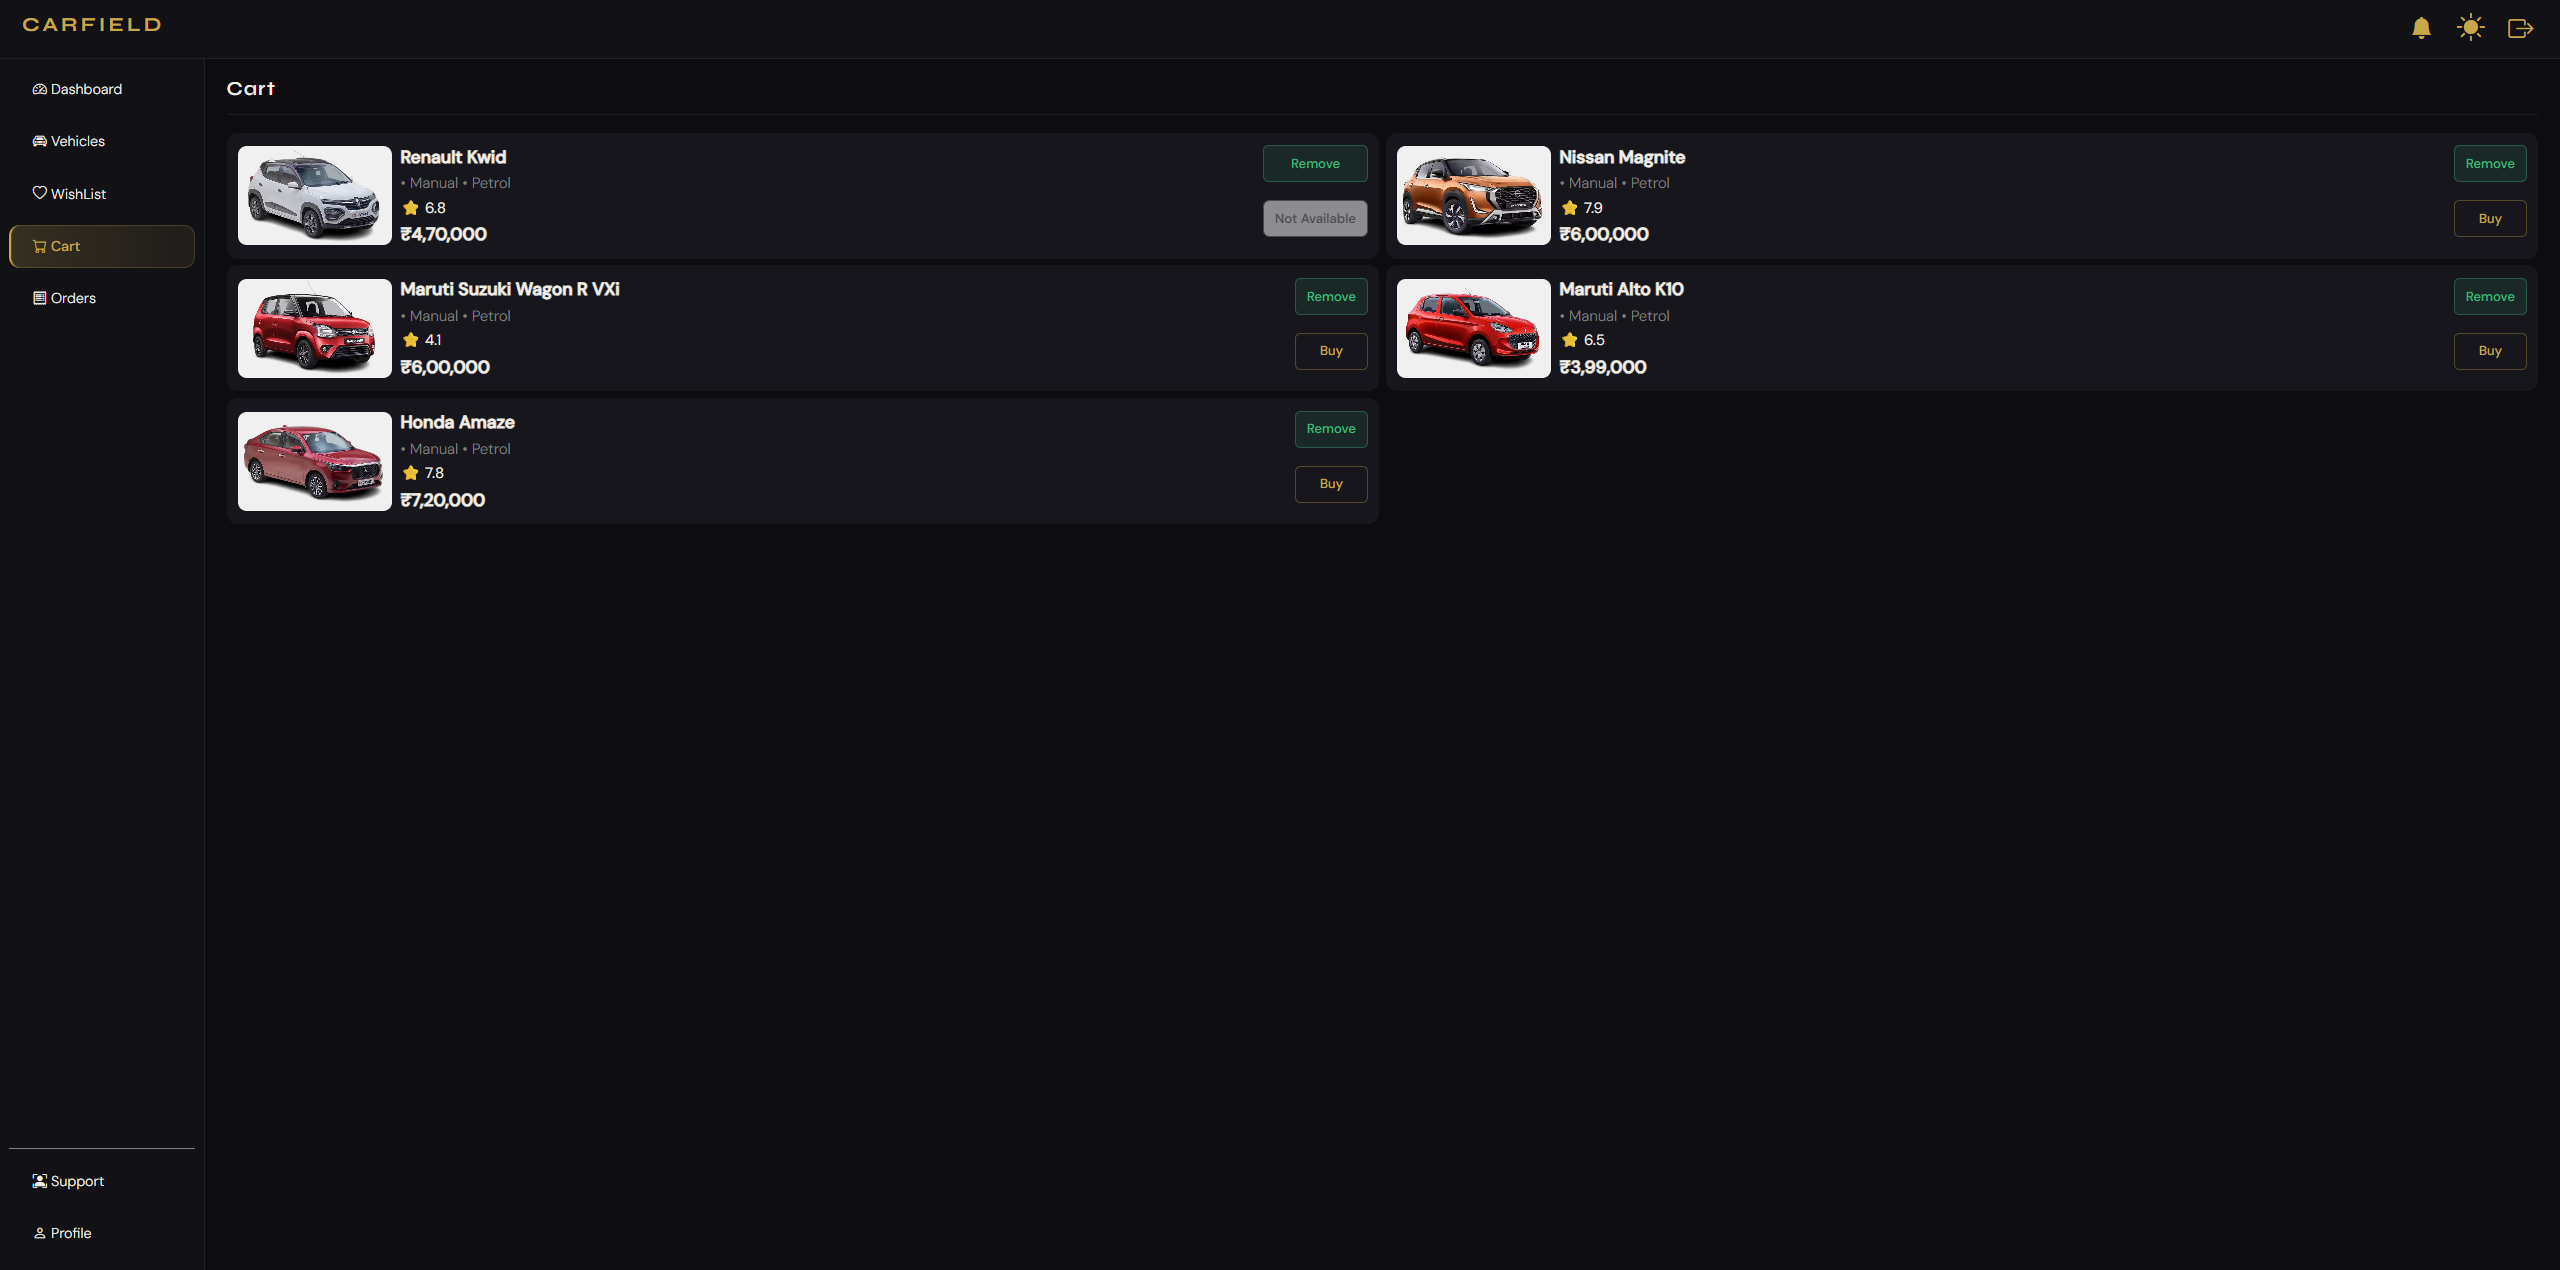
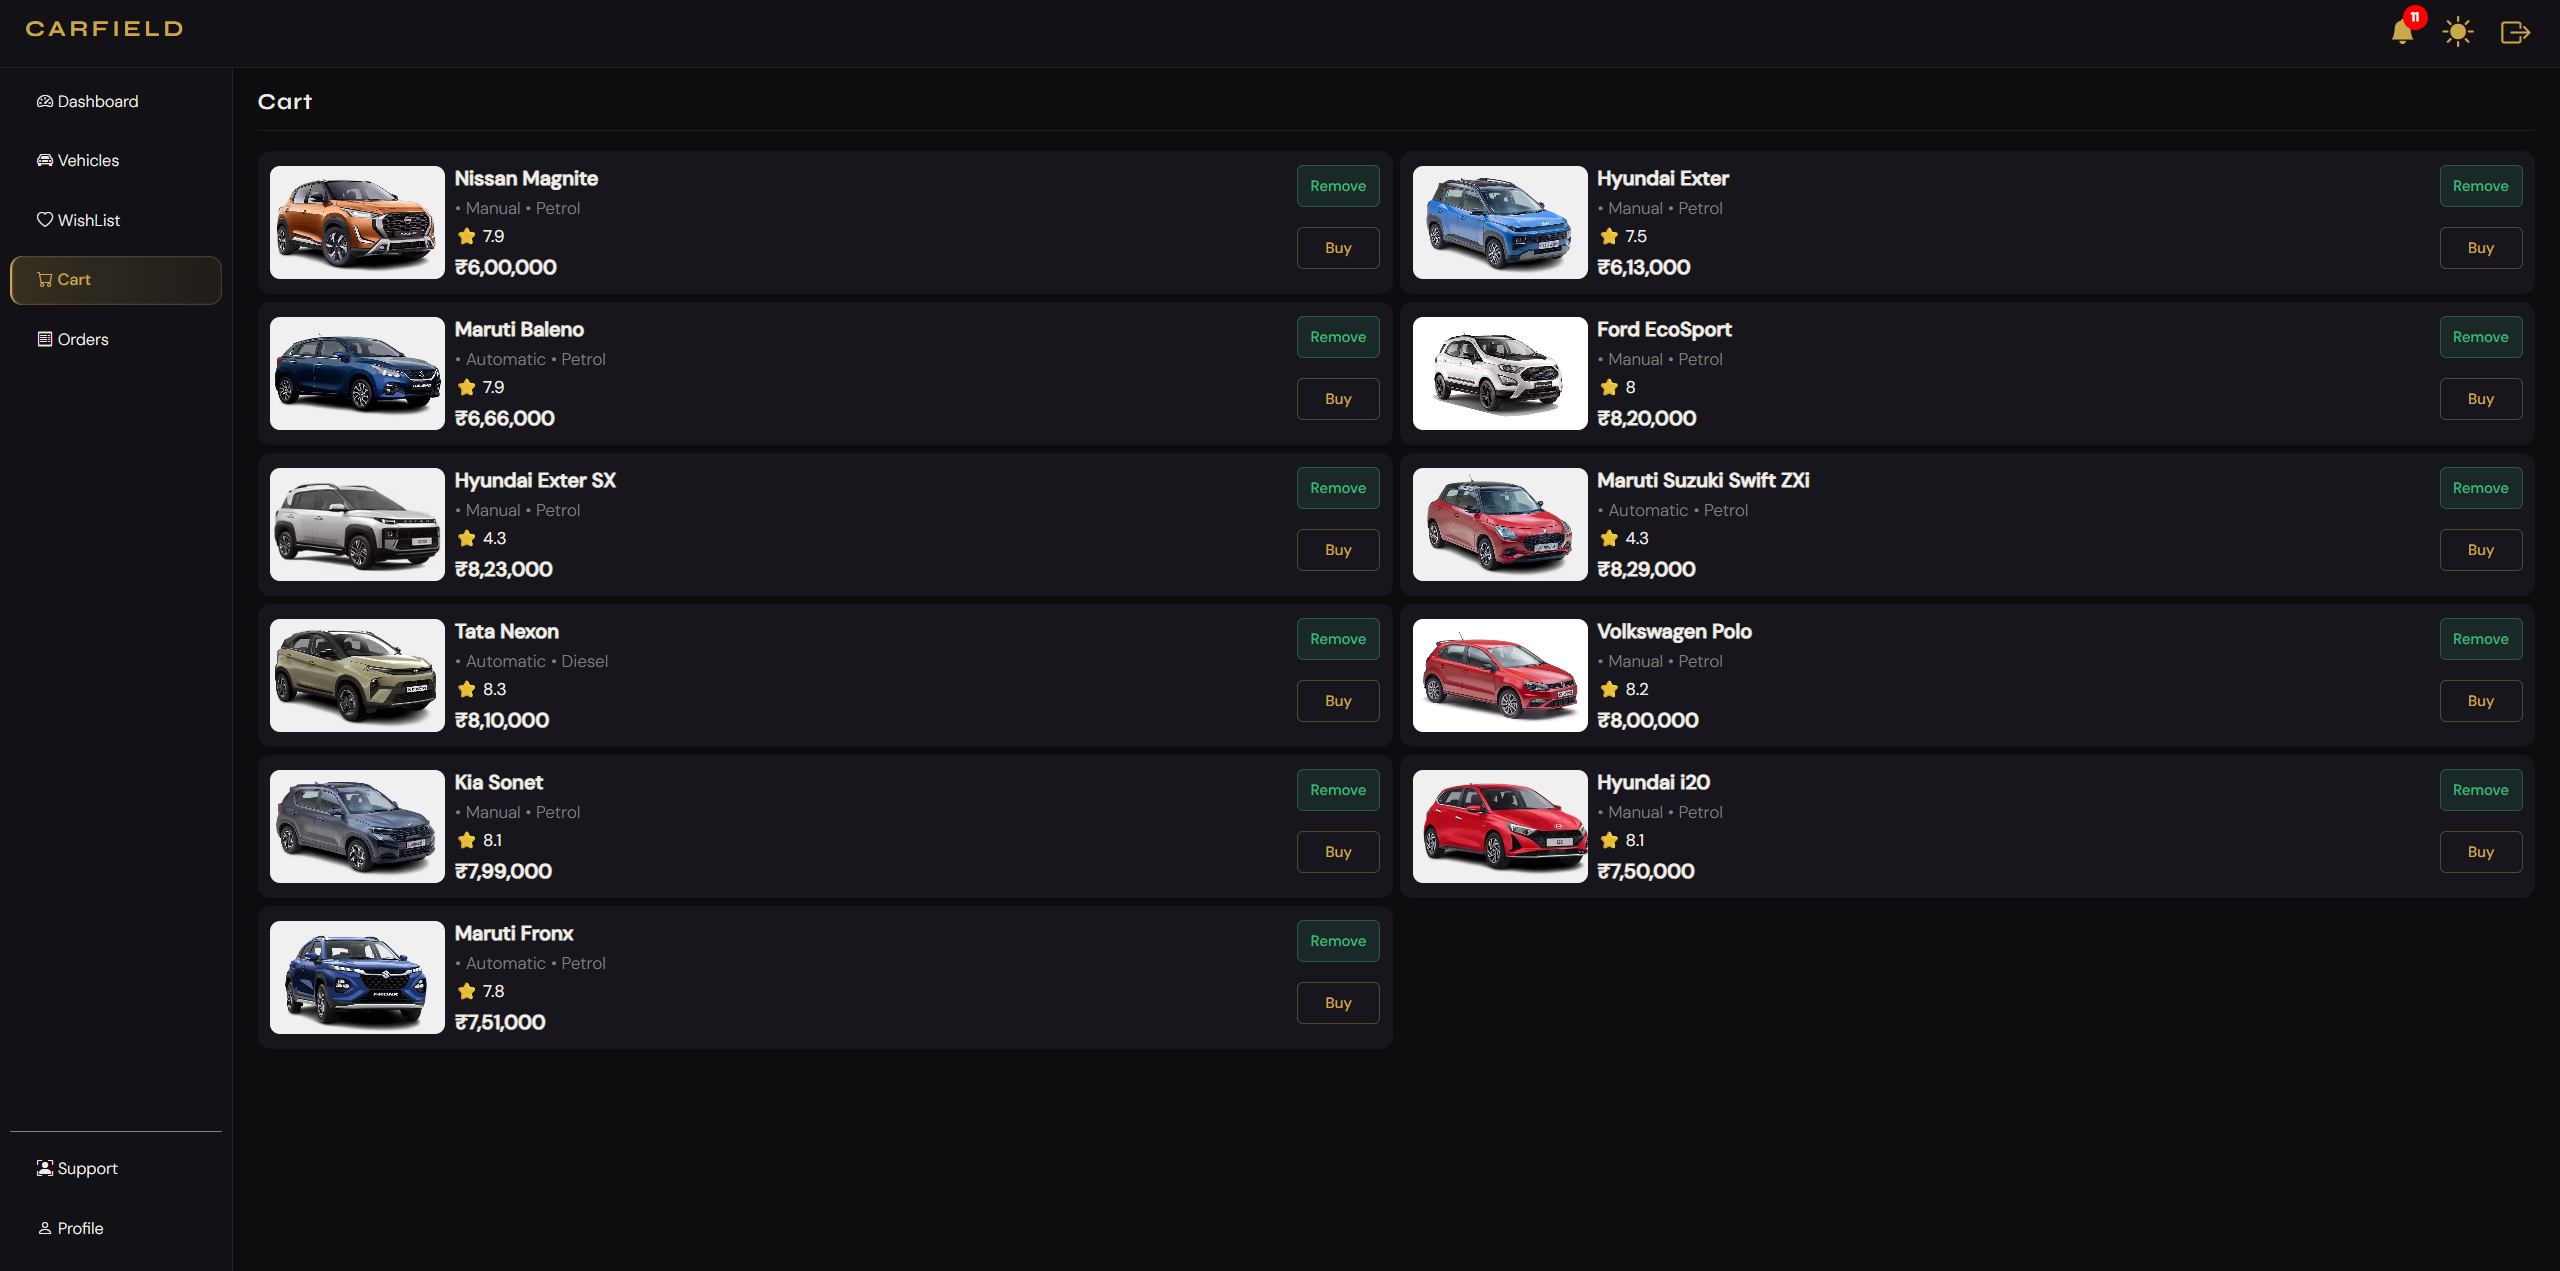
Google Authentication Problem have been fixed.

diff --git a/frontend/src/context/auth/authProvider.jsx b/frontend/src/context/auth/authProvider.jsx
@@ -18,7 +18,6 @@ function persistUserRole(user) {
 export function AuthProvider({ children }) {
     const [user, setUser] = useState(null);
     const [authLoading, setAuthLoading] = useState(true);
-    const [success, setSuccess] = useState("");
 
     useEffect(() => {
         // Check if URL has ?token= from Google OAuth redirect
@@ -45,16 +44,13 @@ export function AuthProvider({ children }) {
 
         restoreSession();
 
-        if(success) {
-            toast.success(success);
-        }
     }, []);
 
     /* ─── Registration OTP: sent to the email BEFORE any account exists.
        "Generate OTP" in the signup form calls this. ─── */
     async function sendRegistrationOtp(email) {
         const res = await apiPost('/auth/send-registration-otp', { email });
-        setSuccess("OTP sent to your email.");
+        toast.success("OTP sent to your email.");
 
         return res;
     }
@@ -68,7 +64,7 @@ export function AuthProvider({ children }) {
 
         localStorage.setItem("token", res.token);
 
-        setSuccess("Welcome! How can we help you?");
+        toast.success("Welcome! How can we help you?");
 
         return user;
     }
@@ -79,7 +75,7 @@ export function AuthProvider({ children }) {
 
         localStorage.setItem("token", res.token);
 
-        setSuccess("Welcome back! How can we help you?");
+        toast.success("Welcome back! How can we help you?");
 
         return user;
     }
@@ -101,7 +97,7 @@ export function AuthProvider({ children }) {
 
     async function requestPasswordOtp(email) {
         const res = await apiPost('/auth/forgot-password', { email });
-        setSuccess("If that email exists, a code has been sent.");
+        toast.success("If that email exists, a code has been sented to your email.");
 
         return res;
     }
@@ -114,7 +110,7 @@ export function AuthProvider({ children }) {
 
     async function resetPassword(email, token, newPassword) {
         const res = await apiPost('/auth/reset-password', { email, token, newPassword });
-        setSuccess("Password updated. You can sign in now.");
+        toast.success("Password updated. You can sign in now.");
 
         return res;
     }

diff --git a/backend/config/passport.js b/backend/config/passport.js
@@ -15,23 +15,39 @@ passport.use(
         async (accessToken, refreshToken, profile, done) => {
             try {
                 const googleId = profile.id;
-                const email = profile.emails[0].value.toLowerCase();
-
+                const email = profile.emails?.[0]?.value?.toLowerCase().trim();
+        
+                // 1. Check if this Google account has already logged in before
                 let user = await User.findOne({ googleId });
-
-                // create user if not exists
-                if (!user) {
-                    user = await User.create({
-                        userName: profile.displayName,
-                        email,
-                        googleId,
-                        image: profile.photos?.[0]?.value || "",
-                        role: "user",
-                    });
+                if (user) {
+                    return done(null, user);
                 }
-
-                done(null, user);
-
+        
+                // 2. Not linked yet — check if an account with this email already exists
+                if (email) {
+                    user = await User.findOne({ email });
+                    if (user) {
+                        // Link Google to the existing email/password account
+                        user.googleId = googleId;
+                        if (!user.image && profile.photos?.[0]?.value) {
+                            user.image = profile.photos[0].value;
+                        }
+                        await user.save();
+                        return done(null, user);
+                    }
+                }
+        
+                // 3. Brand new user — create as usual
+                user = await User.create({
+                    userName: profile.displayName,
+                    email,
+                    googleId,
+                    image: profile.photos?.[0]?.value || "",
+                    role: "user",
+                });
+        
+                return done(null, user);
+        
             } catch (error) {
                 done(error, null);
             }

diff --git a/frontend/src/style/index.css b/frontend/src/style/index.css
@@ -39,6 +39,9 @@
 
   --skeleton-color: #26262f;
 
+  --landing-bg-1: #16161c;
+  --landing-bg-2: #111116;
+
   --profile-card: #111116;
   --profile-card-border: #111116;
   --profile-subcard: #111116;
@@ -82,6 +85,9 @@ html[data-theme="light"] {
   --gold-border: rgba(201, 162, 39, 0.40);
 
   --skeleton-color: #cbd5e0;
+
+  --landing-bg-1: #ffffff;
+  --landing-bg-2: #d2d2d2;
 
   --profile-card: #ffffff;
   --profile-card-border: #e2e8f0;
@@ -1908,7 +1914,7 @@ input[type="checkbox"]:checked {
   background: transparent;
   border: none;
   outline: none;
-  color: var(--text);
+  color: #f0ede6;
   font-size: 14px;
   padding: 12px 0;
   font-family: 'DM Sans', Arial, sans-serif;
@@ -2915,7 +2921,7 @@ input[type="checkbox"]:checked {
 }
 
 .landing-hero {
-  background: linear-gradient(140deg, #171720 10%, var(--bg-surface) 90%);
+  background: linear-gradient(140deg, var(--landing-bg-1) 10%, var(--landing-bg-2) 90%);
   border: 1px solid var(--border);
   border-radius: var(--radius-lg);
   padding: 34px;

diff --git a/backend/routes/authRoute.js b/backend/routes/authRoute.js
@@ -32,15 +32,18 @@ router.get("/google/callback",
     session: false,
     failureRedirect: `${(process.env.CLIENT_URL || "").replace(/\/$/, "")}/login`,
   }),
-  async (req, res) => {
-    const token = generateToken(req.user);
-    const clientUrl = (process.env.CLIENT_URL || "").replace(/\/$/, "");
-    const redirectUrl =
-      process.env.NODE_ENV === "production"
-        ? `${clientUrl}/?token=${token}`       // ← redirect to root with token
-        : `http://localhost:1200/?token=${token}`;
-
-    res.redirect(redirectUrl);
+  async (req, res, next) => {
+    try {
+      const token = generateToken(req.user);
+      const clientUrl = (process.env.CLIENT_URL || "").replace(/\/$/, "");
+      const redirectUrl =
+        process.env.NODE_ENV === "production"
+          ? `${clientUrl}/?token=${token}`
+          : `http://localhost:1200/?token=${token}`;
+      res.redirect(redirectUrl);
+    } catch (err) {
+      next(err);
+    }
   }
 );
 

diff --git a/frontend/src/pages/Dashboard.jsx b/frontend/src/pages/Dashboard.jsx
@@ -54,10 +54,10 @@ const AVATAR_BG = [
    HELPERS
 ═══════════════════════════════════════════════════════════════════ */
 function fmtRupees(n) {
-  if (!n) return "₹0";
-  if (n >= 1e7) return `₹${(n / 1e7).toFixed(2)} Cr`;
-  if (n >= 1e5) return `₹${(n / 1e5).toFixed(1)} L`;
-  return `₹${n.toLocaleString("en-IN")}`;
+  if (!n) return "0";
+  if (n >= 1e7) return `${(n / 1e7).toFixed(2)} Cr`;
+  if (n >= 1e5) return `${(n / 1e5).toFixed(1)} L`;
+  return `${n.toLocaleString("en-IN")}`;
 }
 
 function initials(name = "") {

diff --git a/backend/models/UserSchema.js b/backend/models/UserSchema.js
@@ -8,8 +8,8 @@ const userSchema = new mongoose.Schema(
     },
     email: {
       type: String,
+      required: true,
       unique: true,
-      sparse: true,
       lowercase: true,
       trim: true,
     },
